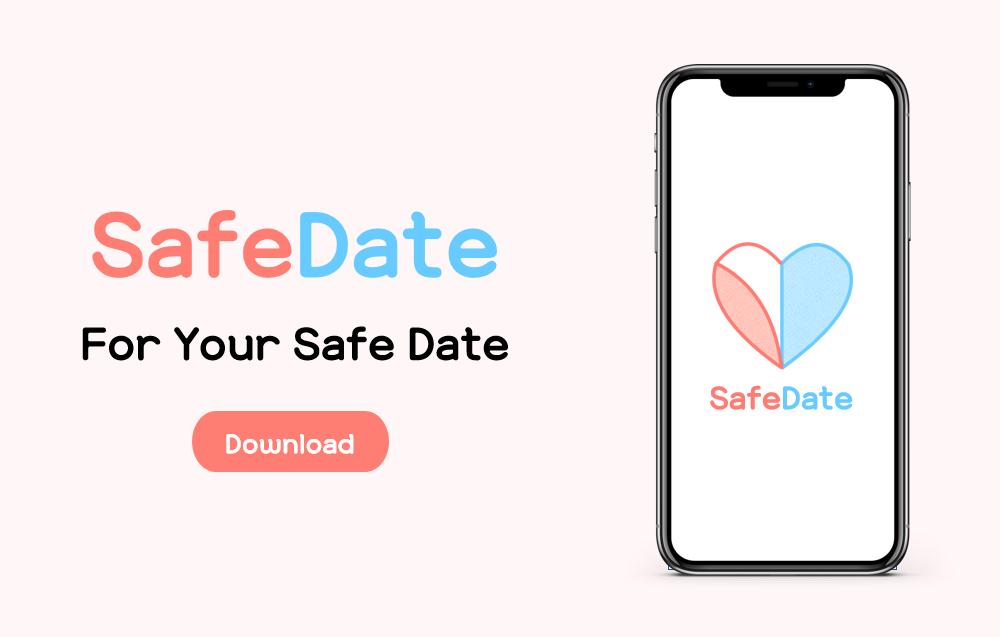
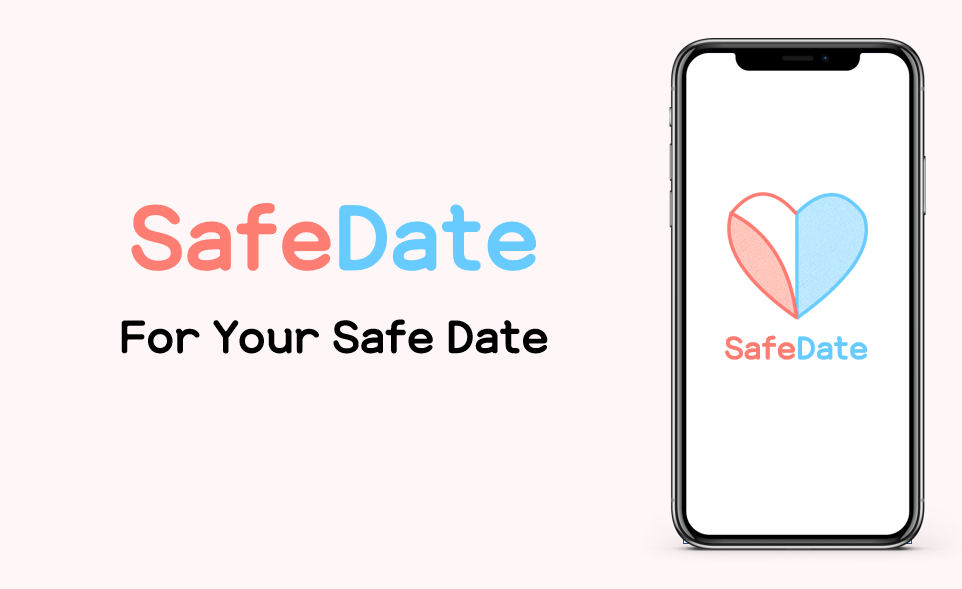
changed images

diff --git a/en/index.html b/en/index.html
@@ -86,7 +86,7 @@
         </div>
     </nav>
     <div class= "imageFile">
-        <a href="./app_developing.html"><img src = "images/safedate-korean.PNG"></a>
+        <a href="./app_developing.html"><img src = "images/app_download_link.PNG"></a>
     </div>
     <div class="imageFile_normal">
         <img src = "images/app_feature1.PNG">

diff --git a/index.html b/index.html
@@ -86,7 +86,7 @@
         </div>
     </nav>
     <div class= "imageFile">
-        <a href="./app_developing.html"><img src = "images/safedate-korean.PNG"></a>
+        <a href="./app_developing.html"><img src = "images/app_download_link.PNG"></a>
     </div>
     <div class="imageFile_normal">
         <img src = "images/app_feature1.PNG">
